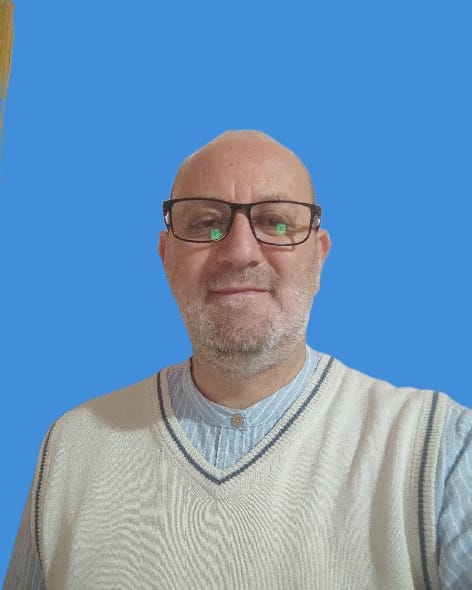
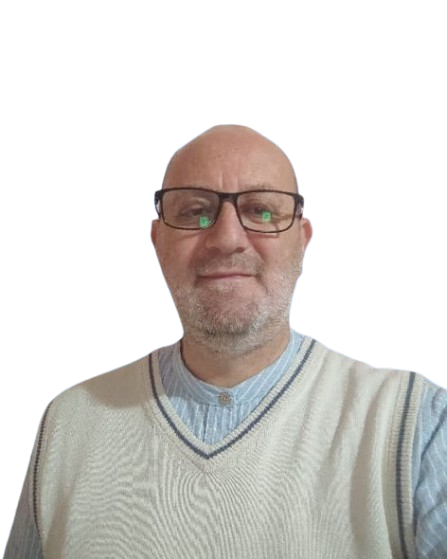
Version 1.5

diff --git a/index.html b/index.html
@@ -35,6 +35,16 @@
 
 
 <body class="text-gray-800 bg-white">
+
+    <!-- Preloader -->
+    <div id="preloader" class="fixed inset-0 bg-white flex flex-col items-center justify-center z-50">
+        <!-- Logo -->
+        <img src="./assets/imagenes/logo.png" alt="Cargando..." class="w-24 h-auto mb-4 animate-pulse">
+
+        <!-- Spinner -->
+        <div class="w-10 h-10 border-4 border-blue-500 border-t-transparent rounded-full animate-spin"></div>
+    </div>
+
     <!-- Navbar -->
 
     <header class="fixed top-0 left-0 w-full bg-white shadow z-50">
@@ -631,7 +641,7 @@
             },
         });
 
-       
+
 
         AOS.init({
             duration: 1000, // duración de la animación
@@ -646,8 +656,22 @@
 
             menuToggle.addEventListener('click', () => {
                 menu.classList.toggle('hidden');
-                
+
             });
+        });
+
+        window.addEventListener("load", function () {
+            const preloader = document.getElementById("preloader");
+            if (preloader) {
+                // Espera 2 segundos después de cargar
+                setTimeout(() => {
+                    preloader.style.opacity = "0";
+                    preloader.style.transition = "opacity 0.5s ease";
+                    setTimeout(() => {
+                        preloader.style.display = "none";
+                    }, 500); // Espera a que termine la transición
+                }, 1000); // 2000 ms = 2 segundos
+            }
         });
 
     </script>

diff --git a/nosotros.html b/nosotros.html
@@ -141,6 +141,16 @@
 
 
 <body class="text-gray-800 bg-white">
+
+    <!-- Preloader -->
+    <div id="preloader" class="fixed inset-0 bg-white flex flex-col items-center justify-center z-50">
+        <!-- Logo -->
+        <img src="./assets/imagenes/logo.png" alt="Cargando..." class="w-24 h-auto mb-4 animate-pulse">
+
+        <!-- Spinner -->
+        <div class="w-10 h-10 border-4 border-blue-500 border-t-transparent rounded-full animate-spin"></div>
+    </div>
+
     <!-- Navbar -->
 
     <header class="fixed top-0 left-0 w-full bg-white shadow z-50">
@@ -752,6 +762,20 @@
                 menu.classList.toggle('hidden');
                 
             });
+        });
+
+        window.addEventListener("load", function () {
+            const preloader = document.getElementById("preloader");
+            if (preloader) {
+                // Espera 2 segundos después de cargar
+                setTimeout(() => {
+                    preloader.style.opacity = "0";
+                    preloader.style.transition = "opacity 0.5s ease";
+                    setTimeout(() => {
+                        preloader.style.display = "none";
+                    }, 500); // Espera a que termine la transición
+                }, 1000); // 2000 ms = 2 segundos
+            }
         });
 
     </script>
